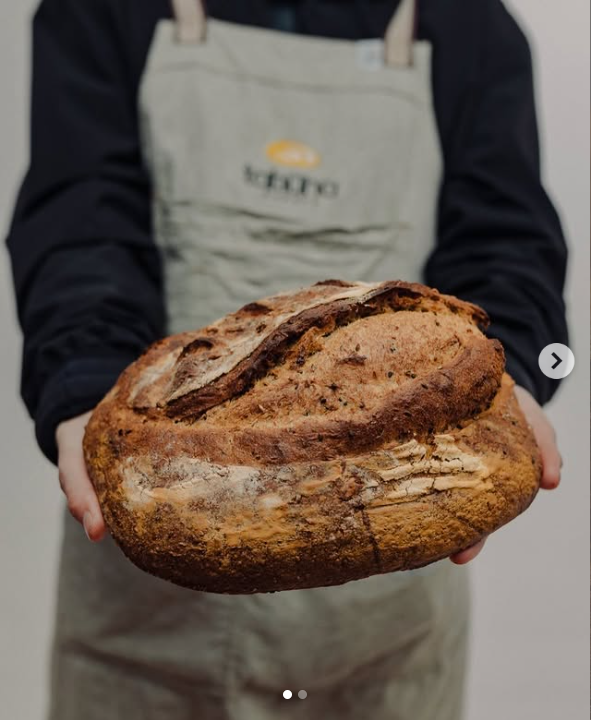
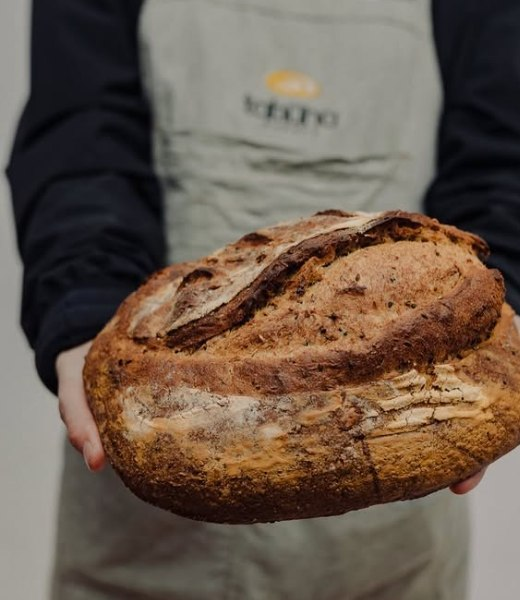
Corrige nav móvil, botón de Instagram roto y fotos con marca de carrusel
- Agrega "Inicio" al nav (desktop, móvil y footer) apuntando al hero
- Cambia el CTA de ig.me (fallaba con pantalla negra) al perfil de
  Instagram directo, que sí carga de forma confiable
- Recorta/sustituye las fotos de producto que dejaban ver que venían
  de un carrusel de Instagram (flechas, puntos, texto y líneas de
  etiqueta dibujadas a mano): pan de masa madre, croissant, brioche,
  cookies y la nueva foto de viennoiserie (trio.jpg); nueva og-image
  sin texto superpuesto
- Comprime hero.jpg (500KB -> 56KB) sin pérdida visible de calidad

Claude-Session: https://claude.ai/code/session_015enxdwK75zsNapZKm2z3Ui

diff --git a/index.html b/index.html
@@ -84,6 +84,7 @@
 
       <nav class="main-nav" id="main-nav">
         <ul class="nav-links">
+          <li><a href="#top">Inicio</a></li>
           <li><a href="#nosotros">Nosotros</a></li>
           <li><a href="#catalogo">Especialidades</a></li>
           <li><a href="menu.html">Menú completo</a></li>
@@ -93,7 +94,7 @@
           <a class="social-icon" href="https://www.instagram.com/tahuna.panaderia/" target="_blank" rel="noopener" aria-label="Instagram de Tahūna Bakery">
             <svg viewBox="0 0 24 24" fill="none" stroke="currentColor" stroke-width="1.8"><rect x="3" y="3" width="18" height="18" rx="5"/><circle cx="12" cy="12" r="4"/><circle cx="17.2" cy="6.8" r="1"/></svg>
           </a>
-          <a class="btn btn-primary" href="https://ig.me/m/tahuna.panaderia" target="_blank" rel="noopener">Escríbenos</a>
+          <a class="btn btn-primary" href="https://www.instagram.com/tahuna.panaderia/" target="_blank" rel="noopener">Escríbenos</a>
         </div>
       </nav>
 
@@ -117,7 +118,7 @@
             Plaza Leona Vicario, Metepec
           </div>
           <div class="hero-actions">
-            <a class="btn btn-primary" href="https://ig.me/m/tahuna.panaderia" target="_blank" rel="noopener">Escríbenos por Instagram</a>
+            <a class="btn btn-primary" href="https://www.instagram.com/tahuna.panaderia/" target="_blank" rel="noopener">Escríbenos por Instagram</a>
             <a class="btn btn-light" href="#catalogo">Ver especialidades</a>
           </div>
         </div>
@@ -164,7 +165,7 @@
         <div class="catalog-grid">
           <article class="catalog-card">
             <div class="catalog-card-media">
-              <img src="images/sourdough.jpg" alt="Pan de masa madre artesanal Tahūna" class="crop-low">
+              <img src="images/sourdough.jpg" alt="Pan de masa madre artesanal Tahūna">
             </div>
             <div class="catalog-card-body">
               <span class="catalog-tag">Panadería</span>
@@ -175,7 +176,7 @@
 
           <article class="catalog-card">
             <div class="catalog-card-media">
-              <img src="images/croissant-passport.jpg" alt="Croissant tradicional Tahūna, elaborado con masa madre, harina, mantequilla, agua, sal y levadura" class="crop-top">
+              <img src="images/croissant.jpg" alt="Croissants tradicionales Tahūna recién horneados">
             </div>
             <div class="catalog-card-body">
               <span class="catalog-tag">Viennoiserie</span>
@@ -186,7 +187,7 @@
 
           <article class="catalog-card">
             <div class="catalog-card-media">
-              <img src="images/three-pastries.jpg" alt="Trío de la casa: rol de canela, Kouign Amann y danés de frutos rojos">
+              <img src="images/trio.jpg" alt="Piezas de viennoiserie Tahūna laminadas a mano">
             </div>
             <div class="catalog-card-body">
               <span class="catalog-tag">Viennoiserie</span>
@@ -197,7 +198,7 @@
 
           <article class="catalog-card">
             <div class="catalog-card-media">
-              <img src="images/brioche.jpg" alt="Pan brioche Tahūna, hecho con huevo, masa madre y leche">
+              <img src="images/brioche.jpg" alt="Pan brioche Tahūna, hecho con huevo, masa madre y leche" class="fit-contain">
             </div>
             <div class="catalog-card-body">
               <span class="catalog-tag">Panadería</span>
@@ -208,7 +209,7 @@
 
           <article class="catalog-card">
             <div class="catalog-card-media">
-              <img src="images/cookies.jpg" alt="Cookies gourmet Tahūna: chispas de chocolate, Lotus, triple chocolate y pistache">
+              <img src="images/cookies.jpg" alt="Cookies gourmet Tahūna en capas, recién horneadas" class="fit-contain">
             </div>
             <div class="catalog-card-body">
               <span class="catalog-tag">Galletas</span>
@@ -275,7 +276,7 @@
             <svg viewBox="0 0 24 24" fill="none" stroke="currentColor" stroke-width="1.8"><rect x="3" y="3" width="18" height="18" rx="5"/><circle cx="12" cy="12" r="4"/><circle cx="17.2" cy="6.8" r="1"/></svg>
             <h3>Contacto</h3>
             <p><a href="https://www.instagram.com/tahuna.panaderia/" target="_blank" rel="noopener">@tahuna.panaderia</a></p>
-            <p><a href="https://ig.me/m/tahuna.panaderia" target="_blank" rel="noopener">Escríbenos por Instagram</a></p>
+            <p><a href="https://www.instagram.com/tahuna.panaderia/" target="_blank" rel="noopener">Escríbenos por Instagram</a></p>
           </div>
         </div>
 
@@ -305,6 +306,7 @@
         <div class="footer-col">
           <h4>Explora</h4>
           <ul>
+            <li><a href="#top">Inicio</a></li>
             <li><a href="#nosotros">Nosotros</a></li>
             <li><a href="#catalogo">Especialidades</a></li>
             <li><a href="menu.html">Menú completo</a></li>

diff --git a/menu.html b/menu.html
@@ -52,6 +52,7 @@
 
       <nav class="main-nav" id="main-nav">
         <ul class="nav-links">
+          <li><a href="index.html#top">Inicio</a></li>
           <li><a href="index.html#nosotros">Nosotros</a></li>
           <li><a href="index.html#catalogo">Especialidades</a></li>
           <li><a href="menu.html">Menú completo</a></li>
@@ -61,7 +62,7 @@
           <a class="social-icon" href="https://www.instagram.com/tahuna.panaderia/" target="_blank" rel="noopener" aria-label="Instagram de Tahūna Bakery">
             <svg viewBox="0 0 24 24" fill="none" stroke="currentColor" stroke-width="1.8"><rect x="3" y="3" width="18" height="18" rx="5"/><circle cx="12" cy="12" r="4"/><circle cx="17.2" cy="6.8" r="1"/></svg>
           </a>
-          <a class="btn btn-primary" href="https://ig.me/m/tahuna.panaderia" target="_blank" rel="noopener">Escríbenos</a>
+          <a class="btn btn-primary" href="https://www.instagram.com/tahuna.panaderia/" target="_blank" rel="noopener">Escríbenos</a>
         </div>
       </nav>
 
@@ -207,6 +208,7 @@
         <div class="footer-col">
           <h4>Explora</h4>
           <ul>
+            <li><a href="index.html#top">Inicio</a></li>
             <li><a href="index.html#nosotros">Nosotros</a></li>
             <li><a href="index.html#catalogo">Especialidades</a></li>
             <li><a href="menu.html">Menú completo</a></li>

diff --git a/style.css b/style.css
@@ -352,7 +352,6 @@ section { padding: var(--space-xl) 0; }
   width: 100%;
   height: 460px;
   object-fit: cover;
-  object-position: center 100%;
 }
 .about-badge {
   position: absolute;
@@ -408,8 +407,7 @@ section { padding: var(--space-xl) 0; }
 .catalog-card:hover { transform: translateY(-4px); box-shadow: 0 16px 34px rgba(36, 28, 20, 0.12); }
 .catalog-card-media { height: 210px; overflow: hidden; background: var(--color-panel); }
 .catalog-card-media img { width: 100%; height: 100%; object-fit: cover; }
-.catalog-card-media img.crop-low { object-position: center 100%; }
-.catalog-card-media img.crop-top { object-position: center 15%; }
+.catalog-card-media img.fit-contain { object-fit: contain; padding: 10px; }
 .catalog-card-body { padding: var(--space-md); }
 .catalog-card-body h3 { margin-bottom: 0.35rem; }
 .catalog-card-body p { color: var(--color-text-soft); font-size: 0.92rem; margin-bottom: 0.5rem; }
